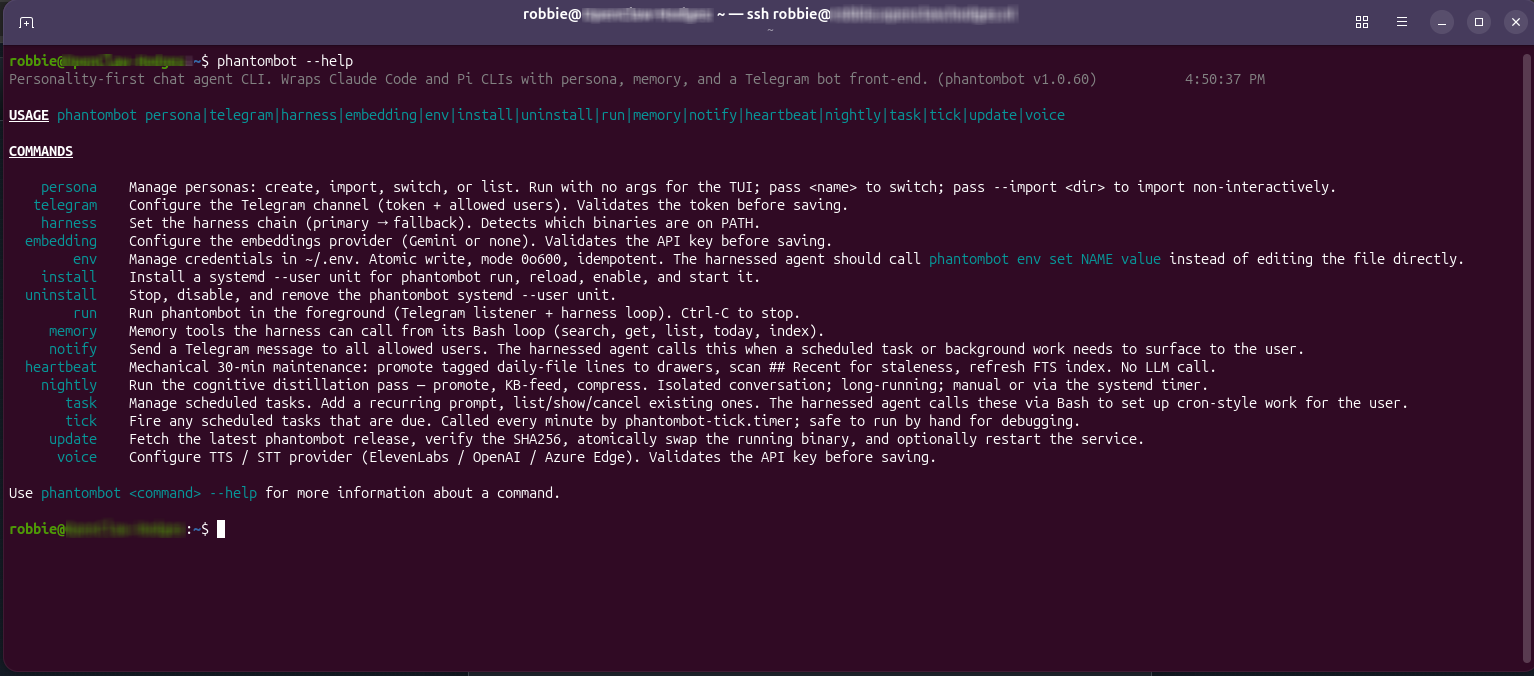
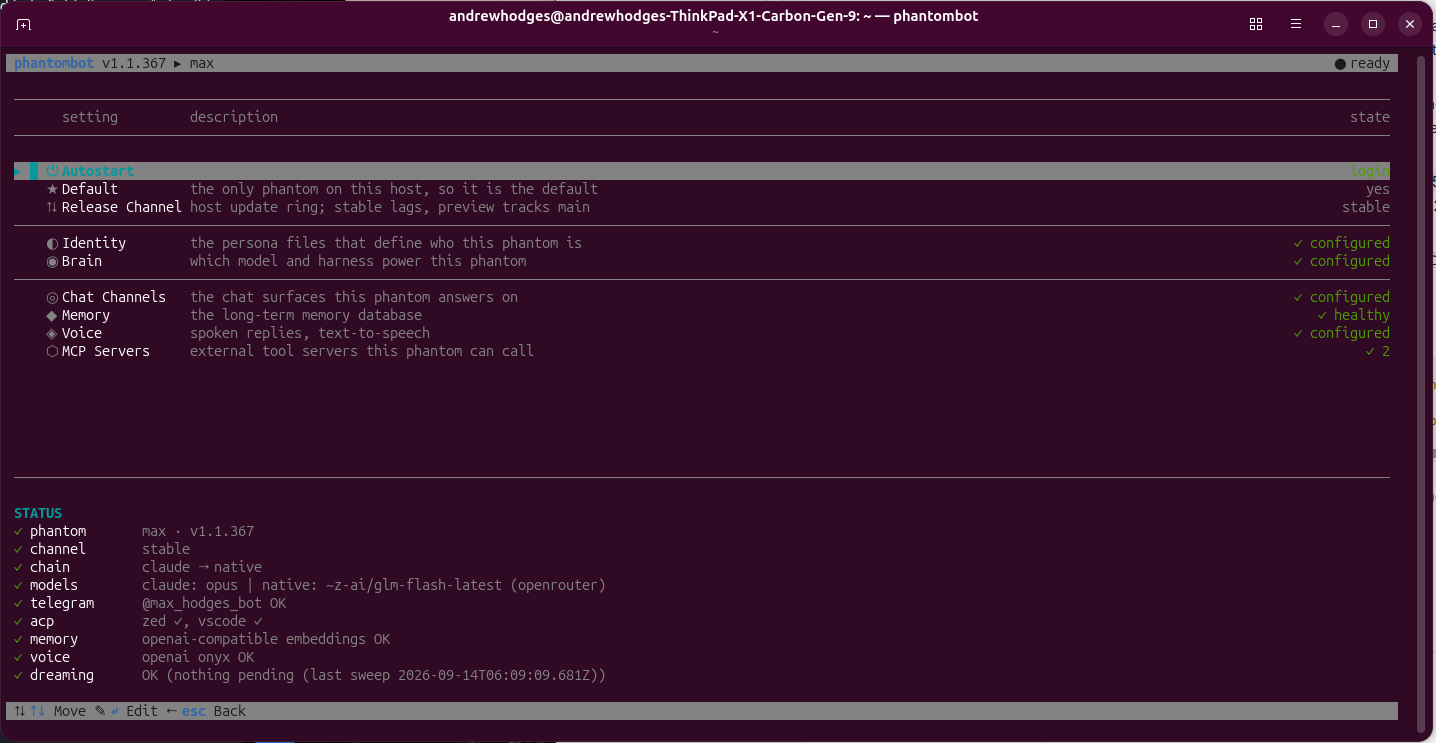
website: hero uses the official positioning line, three supporting bullets, new TUI screenshot
- Hero already carried 'Armors your harness, learns your world, zero context tax.'
  (title/meta/h1); add three hero bullets that unpack each clause.
- Replace the terminal showcase screenshot with the new TUI capture.
- Minimal mono-styled bullet list matching the Pi aesthetic.

Changed region(s): [[0.0, 0.0, 1.0, 1.0], [0.2451, 0.7766, 0.429, 0.8077]]

diff --git a/www/index.html b/www/index.html
@@ -34,6 +34,11 @@
             <h1>Phantombot. Armors your harness, learns your world, zero context tax.</h1>
             <p class="subtitle">Personal AI agents that live on your hardware.</p>
             <p class="tagline">The harness can do its own tools — let it. Built for minimalist, high-torque agency.</p>
+            <ul class="hero-points">
+                <li><strong>Armors your harness</strong> &mdash; a security perimeter in front of Claude&nbsp;Code, Codex, or Pi: two-tier trust, a threat judge, and your keys on your hardware.</li>
+                <li><strong>Learns your world</strong> &mdash; local memory that compounds: your decisions, lessons, people, and preferences never reset between sessions.</li>
+                <li><strong>Zero context tax</strong> &mdash; the harness keeps its tools; your Phantom carries the context, so you stop re-explaining and it stops re-learning.</li>
+            </ul>
             <div class="cta">
                 <p class="cta-label">Install on Linux or macOS (x64/ARM64):</p>
                 <div class="cta-command">
@@ -58,7 +63,7 @@
                     <span class="title">phantombot run</span>
                 </div>
                 <div class="terminal-body">
-                    <img src="assets/img/terminal-screenshot.png" alt="Phantombot CLI in action" class="screenshot">
+                    <img src="assets/img/terminal-screenshot.png" alt="The Phantombot TUI &mdash; an agent turn streaming reasoning, tool calls and reply in the terminal" class="screenshot">
                 </div>
             </div>
         </section>

diff --git a/www/styles.css b/www/styles.css
@@ -128,6 +128,36 @@ h1 {
     margin-bottom: 3rem;
 }
 
+.hero-points {
+    list-style: none;
+    max-width: 620px;
+    margin: 0 auto 3rem;
+    text-align: left;
+    font-family: var(--font-mono);
+    font-size: 0.95rem;
+    color: var(--muted);
+    display: flex;
+    flex-direction: column;
+    gap: 0.9rem;
+}
+
+.hero-points li {
+    padding-left: 1.4rem;
+    position: relative;
+}
+
+.hero-points li::before {
+    content: '>';
+    position: absolute;
+    left: 0;
+    color: var(--accent);
+    font-weight: bold;
+}
+
+.hero-points strong {
+    color: var(--fg);
+}
+
 .cta-label {
     font-family: var(--font-mono);
     font-size: 0.8rem;
